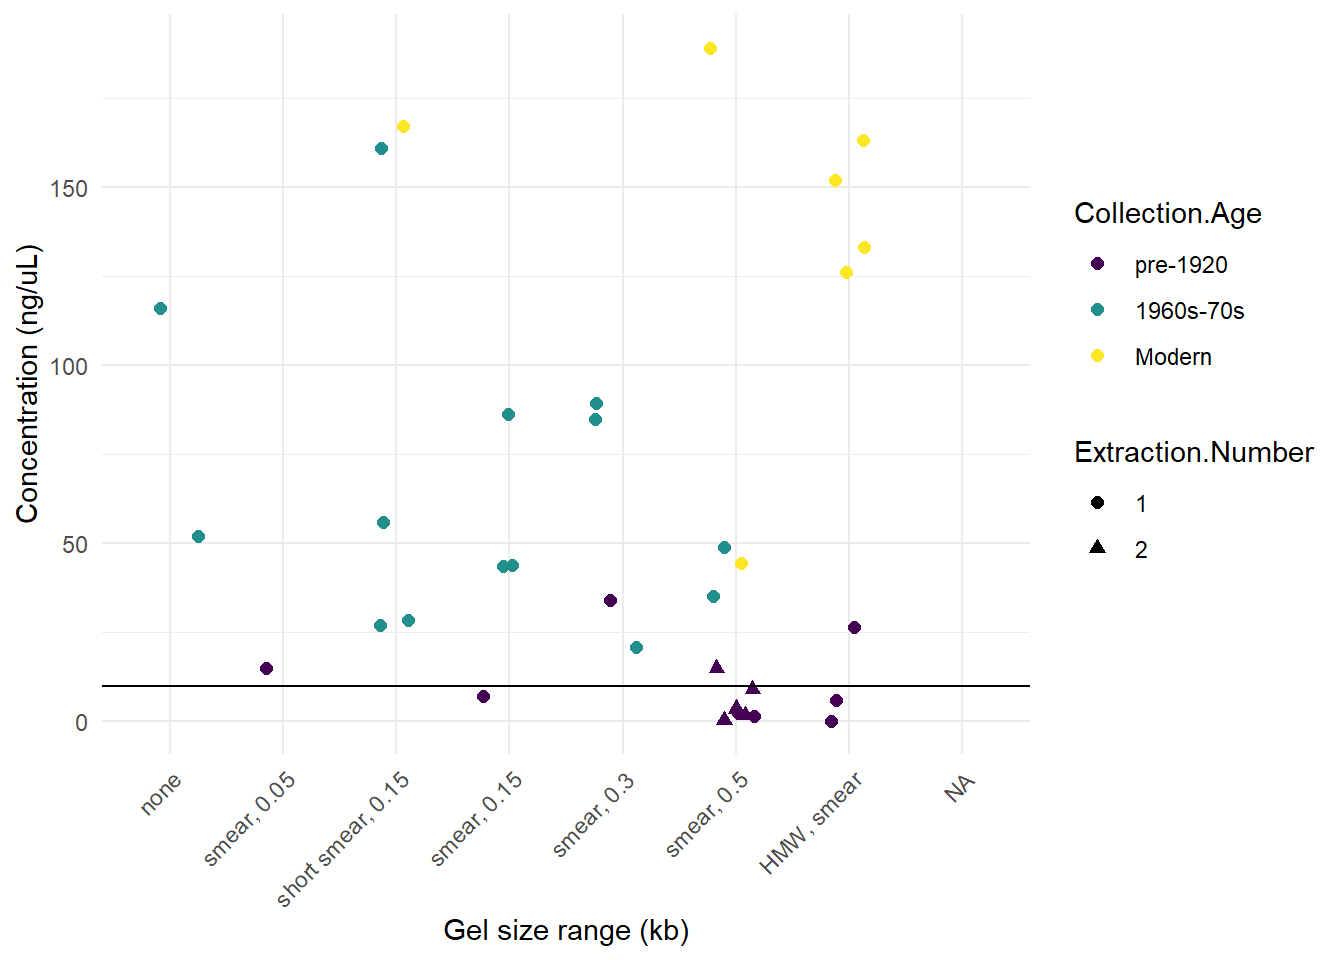
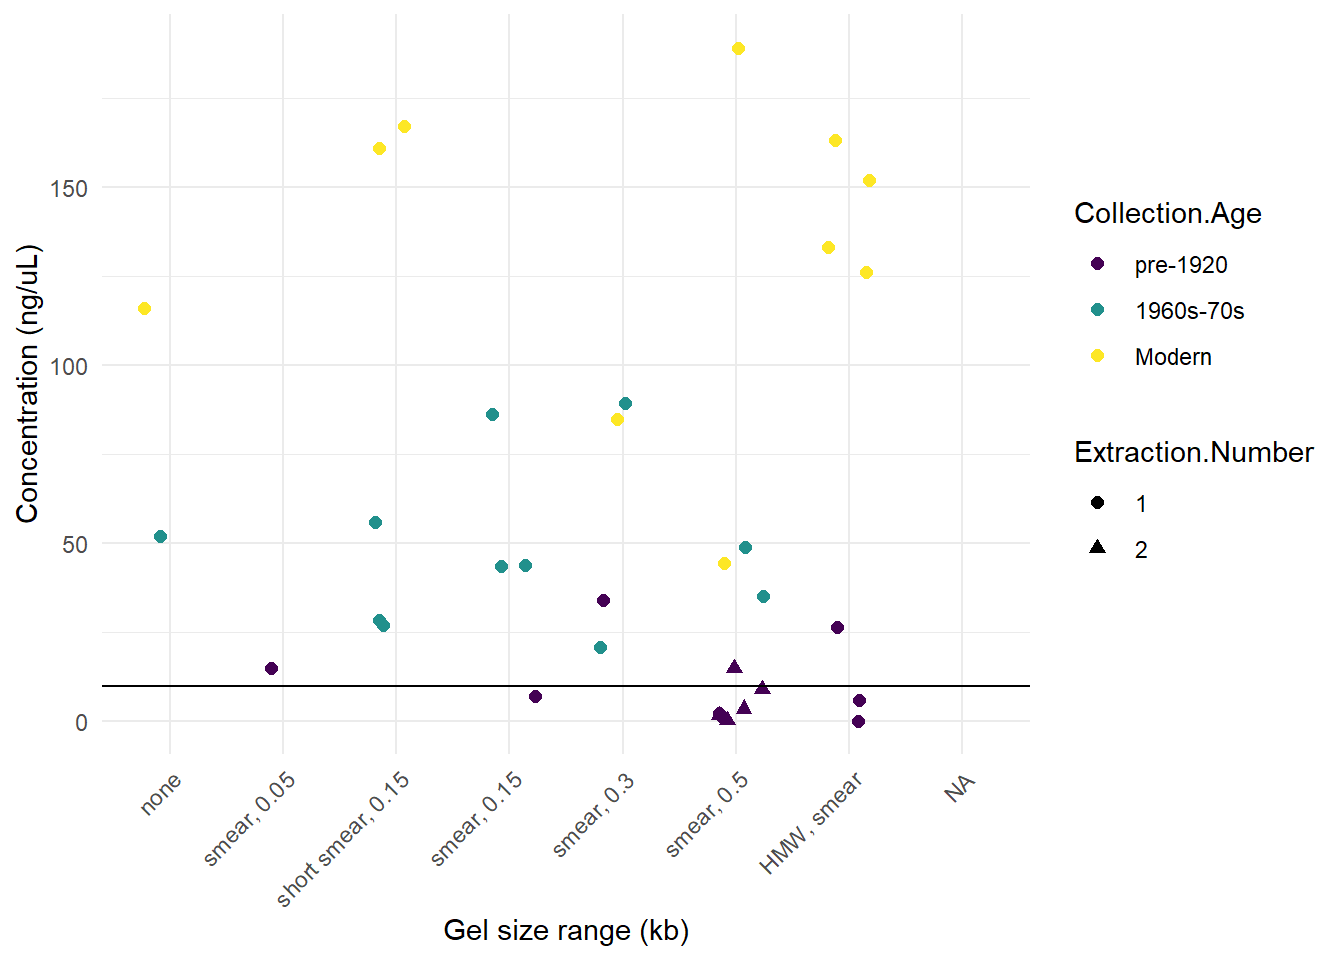
Fix bug with age categorization

diff --git a/docs/posts/projects/SIFP_2025/2025_07_18_gel_electrophoresis.html b/docs/posts/projects/SIFP_2025/2025_07_18_gel_electrophoresis.html
@@ -289,7 +289,7 @@ pre > code.sourceCode > span > a:first-child::before { text-decoration: underlin
 <span id="cb15-10"><a href="#cb15-10" aria-hidden="true" tabindex="-1"></a>                            <span class="at">levels =</span> <span class="fu">c</span>(<span class="st">"none"</span>, <span class="st">"smear, 0.05"</span>, <span class="st">"short smear, 0.15"</span>, <span class="st">"smear, 0.15"</span>, <span class="st">"smear, 0.3"</span>, <span class="st">"smear, 0.5"</span>, <span class="st">"HMW, smear"</span>),</span>
 <span id="cb15-11"><a href="#cb15-11" aria-hidden="true" tabindex="-1"></a>                            <span class="at">ordered =</span> <span class="cn">TRUE</span>)</span>
 <span id="cb15-12"><a href="#cb15-12" aria-hidden="true" tabindex="-1"></a>conc_long<span class="sc">$</span>Collection.Age <span class="ot">&lt;-</span> <span class="fu">ifelse</span>(conc_long<span class="sc">$</span>Year.Collected <span class="sc">&lt;</span> <span class="dv">1920</span>, <span class="st">"pre-1920"</span>,</span>
-<span id="cb15-13"><a href="#cb15-13" aria-hidden="true" tabindex="-1"></a>                              <span class="fu">ifelse</span>(conc_long<span class="sc">$</span>Year.Collected <span class="sc">&gt;</span> <span class="dv">2000</span>, <span class="st">"Modern"</span>, <span class="st">"1960s-70s"</span>))</span>
+<span id="cb15-13"><a href="#cb15-13" aria-hidden="true" tabindex="-1"></a>                              <span class="fu">ifelse</span>(conc_long<span class="sc">$</span>Year.Collected <span class="sc">&gt;</span> <span class="dv">1999</span>, <span class="st">"Modern"</span>, <span class="st">"1960s-70s"</span>))</span>
 <span id="cb15-14"><a href="#cb15-14" aria-hidden="true" tabindex="-1"></a>conc_long<span class="sc">$</span>Collection.Age <span class="ot">&lt;-</span> <span class="fu">factor</span>(conc_long<span class="sc">$</span>Collection.Age,</span>
 <span id="cb15-15"><a href="#cb15-15" aria-hidden="true" tabindex="-1"></a>                              <span class="at">levels =</span> <span class="fu">c</span>(<span class="st">"pre-1920"</span>, <span class="st">"1960s-70s"</span>, <span class="st">"Modern"</span>),</span>
 <span id="cb15-16"><a href="#cb15-16" aria-hidden="true" tabindex="-1"></a>                              <span class="at">ordered =</span> <span class="cn">TRUE</span>)</span>

diff --git a/docs/posts/projects/SIFP_2025.html b/docs/posts/projects/SIFP_2025.html
@@ -196,7 +196,7 @@ Reading Time
 </tr>
 </thead>
 <tbody class="list">
-<tr data-index="0" data-categories="SIFP_2025" data-listing-date-sort="1752811200000" data-listing-file-modified-sort="1753123647220" data-listing-date-modified-sort="NaN" data-listing-reading-time-sort="4" data-listing-title-sort="Gel Electrophoresis" data-listing-filename-sort="2025_07_18_gel_electrophoresis.qmd">
+<tr data-index="0" data-categories="SIFP_2025" data-listing-date-sort="1752811200000" data-listing-file-modified-sort="1753124205188" data-listing-date-modified-sort="NaN" data-listing-reading-time-sort="4" data-listing-title-sort="Gel Electrophoresis" data-listing-filename-sort="2025_07_18_gel_electrophoresis.qmd">
 <td>
 <span class="listing-image"><p class="card-img-top"><img src="SIFP_2025\images\2025_07_18_gels\2025_07_18_labelled_gels\Slide1.PNG" style="height: 40px;"  class="thumbnail-image card-img"/></p></span>
 </td>
